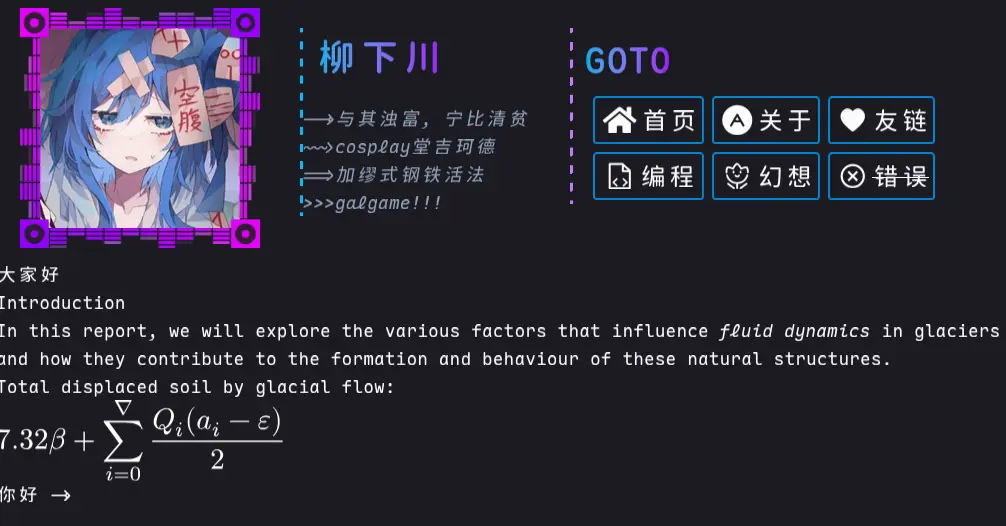
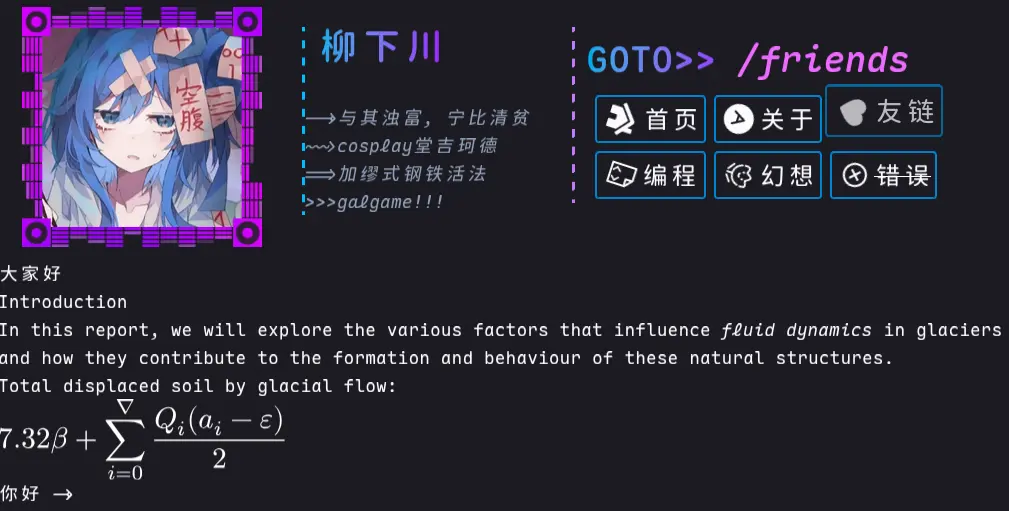
Update

diff --git a/assets/styles/tailwind.css b/assets/styles/tailwind.css
@@ -7,6 +7,9 @@
     --font-mono: ui-monospace, SFMono-Regular, Menlo, Monaco, Consolas, "Liberation Mono",
       "Courier New", monospace;
     --color-yellow-400: oklch(0.852 0.199 91.936);
+    --color-green-500: oklch(0.723 0.219 149.579);
+    --color-green-700: oklch(0.527 0.154 150.069);
+    --color-green-800: oklch(0.448 0.119 151.328);
     --color-sky-400: oklch(0.746 0.16 232.661);
     --color-sky-500: oklch(0.685 0.169 237.323);
     --color-sky-600: oklch(0.588 0.158 241.966);
@@ -15,6 +18,9 @@
     --color-purple-400: oklch(0.714 0.203 305.504);
     --color-purple-500: oklch(0.627 0.265 303.9);
     --color-purple-600: oklch(0.558 0.288 302.321);
+    --color-fuchsia-400: oklch(0.74 0.238 322.16);
+    --color-fuchsia-500: oklch(0.667 0.295 322.15);
+    --color-fuchsia-700: oklch(0.518 0.253 323.949);
     --color-slate-200: oklch(0.929 0.013 255.508);
     --color-slate-400: oklch(0.704 0.04 256.788);
     --color-slate-500: oklch(0.554 0.046 257.417);
@@ -240,6 +246,9 @@
   .z-1 {
     z-index: 1;
   }
+  .z-3 {
+    z-index: 3;
+  }
   .z-4 {
     z-index: 4;
   }
@@ -288,6 +297,9 @@
   .m-5 {
     margin: calc(var(--spacing) * 5);
   }
+  .m-9 {
+    margin: calc(var(--spacing) * 9);
+  }
   .m-auto {
     margin: auto;
   }
@@ -323,6 +335,9 @@
   }
   .mx-auto\! {
     margin-inline: auto !important;
+  }
+  .my-2 {
+    margin-block: calc(var(--spacing) * 2);
   }
   .my-4 {
     margin-block: calc(var(--spacing) * 4);
@@ -372,11 +387,17 @@
   .h-1 {
     height: calc(var(--spacing) * 1);
   }
+  .h-2 {
+    height: calc(var(--spacing) * 2);
+  }
   .h-6 {
     height: calc(var(--spacing) * 6);
   }
   .h-8 {
     height: calc(var(--spacing) * 8);
+  }
+  .h-9 {
+    height: calc(var(--spacing) * 9);
   }
   .h-fit {
     height: fit-content;
@@ -566,8 +587,14 @@
   .px-10 {
     padding-inline: calc(var(--spacing) * 10);
   }
+  .py-2 {
+    padding-block: calc(var(--spacing) * 2);
+  }
   .py-4 {
     padding-block: calc(var(--spacing) * 4);
+  }
+  .pt-2 {
+    padding-top: calc(var(--spacing) * 2);
   }
   .pt-4 {
     padding-top: calc(var(--spacing) * 4);
@@ -583,6 +610,12 @@
   }
   .pr-10 {
     padding-right: calc(var(--spacing) * 10);
+  }
+  .pb-4 {
+    padding-bottom: calc(var(--spacing) * 4);
+  }
+  .pb-8 {
+    padding-bottom: calc(var(--spacing) * 8);
   }
   .\!pl-1 {
     padding-left: calc(var(--spacing) * 1) !important;
@@ -663,6 +696,24 @@
   }
   .text-black {
     color: var(--color-black);
+  }
+  .text-fuchsia-400 {
+    color: var(--color-fuchsia-400);
+  }
+  .text-fuchsia-500 {
+    color: var(--color-fuchsia-500);
+  }
+  .text-fuchsia-700 {
+    color: var(--color-fuchsia-700);
+  }
+  .text-green-500 {
+    color: var(--color-green-500);
+  }
+  .text-green-700 {
+    color: var(--color-green-700);
+  }
+  .text-green-800 {
+    color: var(--color-green-800);
   }
   .text-sky-500 {
     color: var(--color-sky-500);
@@ -1678,6 +1729,15 @@
     @media (width >= 40rem) {
       :is(& > *) {
         margin-inline: calc(var(--spacing) * 2);
+      }
+    }
+  }
+  .sm\:group-hover\:inline {
+    @media (width >= 40rem) {
+      &:is(:where(.group):hover *) {
+        @media (hover: hover) {
+          display: inline;
+        }
       }
     }
   }

diff --git a/src/components/profile.rs b/src/components/profile.rs
@@ -67,15 +67,20 @@ fn Info() -> Element {
 
 #[component]
 fn Navigation() -> Element {
+    let mut text = use_signal(|| rsx! {""});
+
     rsx! {
         div {
-            class: "group h-fit my-4 py-4 border-y-2 border-dashed border-purple-400",
+            class: "group h-fit my-4 pt-2 pb-4 border-y-2 border-dashed border-purple-400",
             class: "sm:my-0 sm:py-0 sm:mx-10 sm:border-l-3 sm:border-y-0",
             p {
                 class: "duration-100 w-fit mx-auto sm:ml-3 sm:py-3 text-4xl! font-semibold",
-                class: "bg-gradient-to-r bg-clip-text from-sky-400/90 to-purple-600/100 text-transparent",
-                span { "GOTO" }
-                span { class: "hidden text-sky-500 group-hover:inline", ">>" }
+                span {
+                    class: "bg-gradient-to-r bg-clip-text from-sky-400/90 to-purple-600/100 text-transparent",
+                    span { "GOTO" }
+                    span { class: "hidden group-hover:inline", ">> " }
+                }
+                span { class: "hidden italic text-fuchsia-400 sm:group-hover:inline", {text} }
             }
             div {
                 class: "grid grid-rows-2 grid-flow-col w-fit mx-auto *:m-1",
@@ -84,27 +89,27 @@ fn Navigation() -> Element {
                 class: "*:text-2xl! *:flex *:flex-row *:items-center *:justify-center *:p-1",
                 class: "*:[&div_i]:mx-1 *:[&div_i]:text-3xl! *:[&div_i]:group-hover:animate-spin",
                 class: "*:hover:scale-110 *:hover:opacity-70 *:hover:duration-200 *:odd:hover:-translate-y-2 *:even:hover:translate-y-2",
-                div { class: "group",
+                div { class: "group", onmouseover: move |_data| { text.set(rsx!{"/home"}) },
                     i { class: "iconfont icon-home" }
                     Link { to: Route::Home {}, "首页" }
                 }
-                div { class: "group",
+                div { class: "group", onmouseover: move |_data| { text.set(rsx!{"/programming"}) },
                     i { class: "iconfont icon-code" }
                     Link { to: Route::Programming {}, "编程" }
                 }
-                div { class: "group",
+                div { class: "group", onmouseover: move |_data| { text.set(rsx!{"/about"}) },
                     i { class: "iconfont icon-about" }
                     Link { to: Route::About {}, "关于" }
                 }
-                div { class: "group",
+                div { class: "group", onmouseover: move |_data| { text.set(rsx!{"/fantasy"}) },
                     i { class: "iconfont icon-flower" }
                     Link { to: Route::Fantasy {}, "幻想" }
                 }
-                div { class: "group",
+                div { class: "group", onmouseover: move |_data| { text.set(rsx!{"/friends"}) },
                     i { class: "iconfont icon-love" }
                     Link { to: Route::Friends {}, "友链" }
                 }
-                div { class: "group",
+                div { class: "group", onmouseover: move |_data| { text.set(rsx!{del {"/error"}}) },
                     i { class: "iconfont icon-error" }
                     Link { to: Route::ErrorPage {}, del { "错误" } }
                 }
